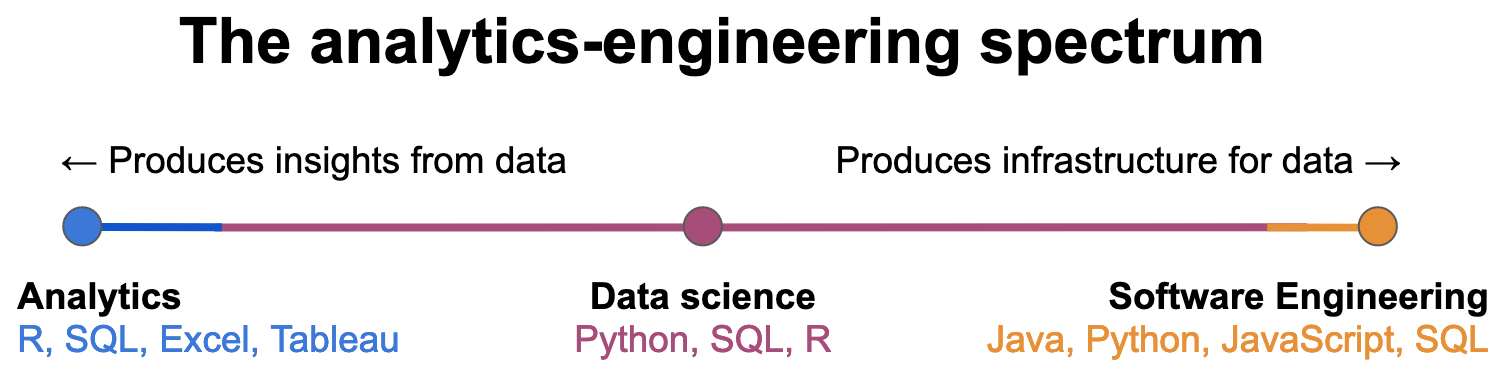
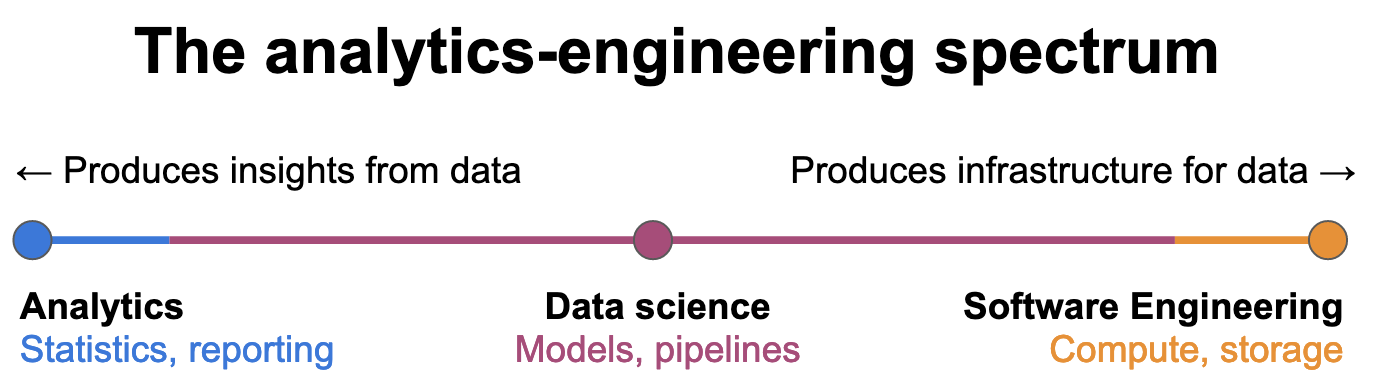
Finish DS-1 post

diff --git a/_sass/_reset.scss b/_sass/_reset.scss
@@ -78,3 +78,9 @@ sup {
 	font-size: smaller;
 	vertical-align: super;
 }
+
+.center {
+	display: block;
+	margin-left: auto;
+	margin-right: auto;
+}

diff --git a/_posts/careers/2020-08-27-DS-transition-1.md b/_posts/careers/2020-08-27-DS-transition-1.md
@@ -1,0 +1,117 @@
+---
+layout: post
+title: How to enter data science - <br>1. Identify the target
+author: matt_sosna
+summary: The role "data scientist" encompasses a huge range of occupations. This post will help you identify what role to aim for by introducing two spectrums that categorize data science roles - 1) analytics-engineering, and 2) computational complexity.
+image: "images/analytics-engineering.png"
+---
+
+The data science hype is real. Glassdoor labeled data scientist as [the best job in America]((https://www.forbes.com/sites/louiscolumbus/2019/01/23/data-scientist-leads-50-best-jobs-in-america-for-2019-according-to-glassdoor/#4c27af67474f)) four years in a row, nudged out of the top spot [only this year](https://www.glassdoor.com/blog/the-best-jobs-in-america-2020/). Data science is transforming [medicine](https://www.theverge.com/2018/8/13/17670156/deepmind-ai-eye-disease-doctor-moorfields), [healthcare](https://www.mckinsey.com/industries/healthcare-systems-and-services/our-insights/the-big-data-revolution-in-us-health-care), [finance](https://www.information-age.com/finance-data-science-123477203/), [business](https://neilpatel.com/blog/how-netflix-uses-analytics/), [nonprofits](https://www.datakind.org/blog/a-step-change-datakind-raises-20m-investment-to-support-the-data-science-for-social-good-ecosystem), and [government](https://gcn.com/articles/2018/11/01/psi_intelligent-grants-automation.aspx). [MIT is spending a billion dollars](http://news.mit.edu/2018/mit-reshapes-itself-stephen-schwarzman-college-of-computing-1015) on a college dedicated solely to AI. [An entire education industry](https://www.switchup.org/rankings/best-data-science-bootcamps) has sprouted to train new data scientists as fast as possible to [fill the burgeoning demand](https://insidebigdata.com/2018/08/19/infographic-data-scientist-shortage/), and for good reason: when [90 percent of the world’s data was generated in the last two years](https://www.glassdoor.com/Salaries/data-scientist-salary-SRCH_KO0,14.htm), we’re in dire need of people who understand how to find patterns in that pile of numbers.
+
+When there's a good match between employer and employee, data science is [a rewarding profession](https://www.businessinsider.com/what-its-like-to-be-a-data-scientist-best-job-in-america-2017-9). Yet at the same time, a 2017 *Financial Times* report found that [13% of data scientists were looking to change jobs](https://www.ft.com/content/49e81ebe-cbc3-11e7-8536-d321d0d897a3), largely driven by [disillusionment with the actual work](https://conductscience.com/are-data-scientists-leaving-jobs/). A 2019 Women in Data UK survey also indicated [*the majority* were planning to change jobs](https://www.computerweekly.com/news/252474752/Most-data-scientists-plan-exit-in-2020-Women-in-Data-conference-hears) the next year.
+
+Wait, so what's the take-away? Is data science a dream job or should I stay away? My take-away, which I share even with [disillusioned data scientists](https://towardsdatascience.com/why-so-many-data-scientists-are-leaving-their-jobs-a1f0329d7ea4), is that **data science is indeed an awesome profession - come join us!** But at the same time, **choose your employer carefully.**
+
+This post assumes you're interested in making the switch to data science. Welcome! In this post, **I'll help you make an informed choice** on the exact type of data science role you'd be happiest in. In part two of this series (coming out soon), I'll outline the technical and non-technical skills needed for you to succeed.
+
+## Table of contents
+* [What is a data scientist?](#what-is-a-data-scientist)
+  - [The scalpel versus the shovel](#the-scalpel-versus-the-shovel)
+  - [How many cores?](#how-many-cores)
+* [Taking it to the real world](#taking-it-to-the-real-world)
+  - [The job market](#the-job-market)
+  - [So what about you?](#so-what-about-you)
+  - [What now?](#what-now)
+* [Footnotes](#footnotes)
+
+## What is a data scientist?
+We first need to define what we mean by data scientist. Looking at job descriptions surprisingly leaves us *more* confused: thanks to the [explosion in interest in data science](https://insidebigdata.com/2018/08/19/infographic-data-scientist-shortage/) over the past decade, companies are happy to assign the "data scientist" label in job postings that could also be titled statistician, data analyst, data engineer, machine learning engineer, or even software engineer. Indeed, you can actually apply machine learning to the posts to identify [several clusters of more specific jobs](https://towardsdatascience.com/can-we-redefine-data-science-titles-based-on-roles-6a2c321201c7) within "data scientist"!
+
+Let's try to make some sense of the variation. At its core, **data science revolves around two ideas:**
+1. **Deriving insights from data**
+2. **Communicating those insights to others**
+
+These two points sound straightforward, but there is *tremendous* variability in what they mean in the real world. The methods used for deriving insights vary from techniques we've had [for over 100 years](https://en.wikipedia.org/wiki/Student%27s_t-test#History) to methods [at the limits of present-day computational capacity](https://venturebeat.com/2020/07/15/mit-researchers-warn-that-deep-learning-is-approaching-computational-limits/). Similarly, communicating insights looks a lot different if the consumer of those insights is [a CEO or an algorithm](https://hbr.org/2018/11/the-kinds-of-data-scientist). The internet abounds with great thought pieces carefully outlining data scientists' exact responsibilities<sup>[[1]](#footnotes)</sup>, so in this post I'll instead frame things in terms of **_spectrums_ of responsibilities.**
+
+### The scalpel versus the shovel
+Let's start with something I call the "analytics-engineering" spectrum. Note that I've purposely omitted several related occupations<sup>[[2]](#footnotes)</sup> to narrow in on what most differentiates data science from analytics and engineering.
+
+![]({{ site.baseurl }}/images/careers/analytics-engineering.png)
+
+I think of this spectrum as **"the scalpel versus the shovel."** An analyst examines data to find insights (**_scalpel_**), while the engineer builds infrastructure to store and move data (**_shovel_**). An analyst needs access to data; an engineer can build databases and APIs to enable this. An engineer needs clear direction on what to build; an analyst's findings can identify the highest-value initiatives to pursue. An analytics team delivers the most value when their insights are accurate and acted upon by the organization. An engineering team is most valuable when there is a range of technical talent that [works well together](https://builtin.com/software-engineering-perspectives/software-development-team).
+
+Somewhere between these vastly different roles lies the data scientist. A data scientist is often expected to _**both understand the data <u>and</u> build the infrastructure**_ to distribute insights to the rest of the organization. They may build a statistical model that accurately describes some data, for example, *and then* build a pipeline to populate a customer-facing dashboard with daily predictions from that model. Their product isn't just the knowledge or just the pipeline - it's some combination of both.
+
+Expectations vary widely on where on this spectrum - _**as well as how much of the spectrum!**_ - a data scientist is expected to cover. A mature big-tech company likely has data scientists in specialized roles, for example working solely on writing more efficient deep learning algorithms. A younger company, meanwhile, will expect the data scientist to span most of the spectrum, and maybe even dabble in software engineering.
+
+### How many cores?
+Another spectrum we need to briefly mention is the _**amount**_ and _**complexity**_ of data being processed, which determines the methods needed to derive insights. Any analysis in the heatmap below can fall under the umbrella of "data science," though the sophistication of coding ability needed varies from relatively little, to years of experience with memory management and distributed computing. Below, **warmer colors indicate greater computational complexity.**
+
+<img src="{{ site.baseurl }}/images/careers/complexity_spectrum.png" height="55%" width="55%" align="left">
+
+As you increase the **size of the dataset (x-axis)**, matrix operations like inverses and transposes in frequentist statistics become computationally heavy compared to the iterative methods of machine learning. Large datasets are also where we need to start thinking about [dividing our task among parallel computer cores](https://www.omnisci.com/technical-glossary/parallel-computing), renting [powerful servers in the cloud](https://en.wikipedia.org/wiki/Cloud_computing), and utilizing parts of the computer [normally reserved for rendering graphics](https://www.boston.co.uk/info/nvidia-kepler/what-is-gpu-computing.aspx). (Hopefully there are data engineers around to help!)
+
+Similarly, as you increase the **complexity of the data (y-axis)**, you quickly increase the number of iterations an algorithm needs, or the number of calculations per iteration. This is where techniques like [deep learning](https://machinelearningmastery.com/what-is-deep-learning/) or [reinforcement learning](https://deepsense.ai/what-is-reinforcement-learning-the-complete-guide/) become necessary: to identify an animal in an image, a neural network has layers upon layers of functions that scroll through pixels to find lines, then layers for building on that input to identify circles, then mouths, eyes, and faces, until many calculations later it predicts "cat" based off the best match with example images it was trained on. Phew! One image down, onto the next!
+
+The red zone may seem appealing because bigger and more complex is always better, right? Well, there are definite drawbacks: for very large datasets, it's easy to find [spurious correlations](https://www.ncbi.nlm.nih.gov/pmc/articles/PMC4236847/), and ignoring fundamental stats principles still makes you reach [incorrect conclusions](https://www.kdnuggets.com/2016/07/big-data-trouble-forgot-applied-statistics.html). Rather than mountains of data, it's much more valuable to have [high-precision data](https://hbr.org/2017/07/sometimes-small-data-is-enough-to-create-smart-products). Meanwhile, for sophisticated methods like deep learning, explaining *how the model came to its conclusion* is [surprisingly difficult](https://hub.packtpub.com/improve-interpretability-machine-learning-systems/) and can lead to lack of faith in the conclusions.
+
+Ultimately, though, you're likely to only use any of these red-zone methods in companies with boatloads of data. If there's no need for something complex, you'll likely find yourself forgoing the deep learning packages and instead cranking out linear and logistic regressions. (Which if done correctly, are incredibly valuable and shouldn't be frowned upon. Answering the question correctly is better than using a cool technique just because it's cool.)
+
+## Taking it to the real world
+### The job market
+The point of the last two sections is to show the vast range in:
+1. Expectations on what level of **analytics and engineering** a data scientist will bring to the table
+2. The **complexity and size** of datasets that can be addressed with data science methods
+
+Let's now use these spectrums to start making some sense of the variation in job posts titled "data scientist." We'll start with a sample job post from Yelp. The title is data scientist, and the position lies deep in the **analytics** side of the spectrum.
+
+<img src="{{ site.baseurl }}/images/careers/ds_job1.png" align="center" height="75%" width="75%" class="center">
+
+It's hard to tell where on the computational complexity heatmap this job falls without seeing specific data science techniques listed, but we can make some inferences. Yelp's data consists of tens of millions of numerical rankings and text reviews, meaning their data scientists are likely employing machine learning and [natural language processing](https://machinelearningmastery.com/natural-language-processing/). Yet, because the job post mentions running experiments that impact millions of users, the data science involved may be more focused on how users interact with the site and app itself. These analyses will likely involve [A/B testing](https://www.optimizely.com/optimization-glossary/ab-testing/), which is typically light on the computational complexity but requires careful statistical control of noise not relevant to the business questions. It's also clear that **Yelp expects the person in this role to provide guidance for business decisions**, meaning statistical nuance is important.
+
+Now let's look at the other end of the spectrum. Here's a sample job posting from Tesla. Again the title is data scientist, but this time the position is **heavy on the engineering.**
+
+<img src="{{ site.baseurl }}/images/careers/ds_job2.png" align="center" height="75%" width="75%" class="center">
+
+It's clear that this job falls in the red zone of computational complexity. [Tensorflow](https://www.tensorflow.org/) and [Keras](https://keras.io/) are tools for deep learning; you'll likely be working on improving how Tesla's autonomous driving algorithms process images dozens or even hundreds of times per second. [Continuous integration](https://codeship.com/continuous-integration-essentials), [REST APIs](https://restfulapi.net/), and JavaScript are clear signs that **the person for this role is expected to have software engineering chops.** The big-picture questions Tesla is trying to solve with data science are likely well-defined - now it's time to flex some muscle with state-of-the-art computation.
+
+### So what about you?
+As we can see, "data scientist" is a catch-all phrase for a wide range of work, much like how the term "engineer" encompasses dozens of professions. To figure out where on the data science spectrum you'd like to be, I'd ask yourself a few questions:
+
+1. **How much do I care about statistical nuances like random effects and representative sampling?**
+ - <span style='color:darkorange'>*Not at all, give me the determinism of code* --> + engineering</span>
+ - <span style='color:dodgerblue'>*I care a lot, and p.s. p-values are misleading!* --> + analytics <br><br></span>
+2. **How much do I care about optimizing code to make it more efficient?**
+ - <span style='color:darkorange'>*This function is 150 lines long - let's modularize that* --> + engineering</span>
+ - <span style='color:dodgerblue'>*Getting the stats right is more important than writing perfect code* --> + analytics <br><br></span>
+3. **How much do I want to build a pipeline once the analysis is complete?**
+ - <span style='color:darkorange'>*Actually, I care more about the pipeline than the analysis* --> + engineering</span>
+ - <span style='color:dodgerblue'>*I'd rather focus on making sure any conclusion I produce is accurate* --> + analytics <br><br></span>
+
+<u><b>I lean towards analytics!</b></u><br>
+If you found yourself identifying more with the analytics answers, I'd focus on building **strong skills in R and data visualization**, **good Excel**, and **decent SQL**. A major bonus would be dashboarding skills like [Shiny](https://shiny.rstudio.com/), [Tableau](https://www.tableau.com/), or [D3.js](https://d3js.org/). A crucial part of your job will be **communicating insights to stakeholders**, so you need to have expert-level skills in explaining your analyses and their conclusions. Your best bet for employers will be mature companies with established data pipelines and who have identified the need for dedicated analysts helping inform business decisions. As a next step, I'd highly recommend Cassie Kozyrkov's *Harvard Business Review* article ["What Great Data Analysts Do - And Why Every Organization Needs Them."](https://hbr.org/2018/12/what-great-data-analysts-do-and-why-every-organization-needs-them)
+
+<u><b>I lean towards engineering!</b></u><br>
+If you found yourself identifying more with the engineering answers, I'd focus on building **strong skills in Python, SQL, and [cloud computing](https://en.wikipedia.org/wiki/Cloud_computing).** Understanding data architecture best practices, such as [relational versus non-relational databases](https://www.pluralsight.com/blog/software-development/relational-non-relational-databases) or how to [configure a Spark cluster](https://www.tutorialkart.com/apache-spark/how-to-setup-an-apache-spark-cluster/), becomes important. **JavaScript** veers away from data science but is crucial for integrating your work seamlessly into the rest of a company's product. If you want to work on huge datasets, consider adding in **Scala or Java**. **Your code will be your product**, so you'll want to read up on [coding best practices](https://www.aversan.com/coding-standards-and-best-practices-2/) and maybe even a textbook or two. Being able to write efficient code in an array of languages will let you tackle a wide range of challenges - ideal for data and software engineering.
+
+<u><b>I want it all!</b></u><br>
+If you don't fall neatly in the pure analytics vs. pure engineering bucket, that's great! There are plenty of jobs out there with the right level of computational complexity and analytics vs. engineering you're looking for. No matter where on the spectrum you fall, though, I'd focus on leveling up your **Python and SQL**, as well as **being able to identify relevant questions for an organization.** The data scientist that has the business sense to identify the right question to pursue, the analytical strength to find answers to those analyses, and the self-sufficiency to deploy the results of those analyses is considered a [tremendously valuable unicorn](https://hbr.org/2018/11/the-kinds-of-data-scientist). I'll go more detail on the technical and non-technical skills in an upcoming post.
+
+### What now?
+**No matter what path you want to take, <u>start building a portfolio</u>**. A GitHub repo is fine, or a blog like this one. **Projects are key to learning** - when you're forced to demonstrate an analysis or build an API yourself, you *internalize* concepts that can otherwise stay abstract. When applying to jobs, it's also helpful to **have some proof of your coding ability** beyond a line on your CV. Writing my [Intro to R]({{ site.baseurl }}/R-1-Intro) series was critical for me developing as a programmer, and it helped land me my first job out of grad school. The team was coding solely in Python, which I didn't have much experience in, but my boss (secretly) read my R blog posts and figured I understood programming well enough to pick up Python on the fly. It worked!
+
+Once you know where on the analytics-engineering spectrum and computational complexity spectrums you fall, **start filtering out job posts** that don't involve the sort of work you'd want to do. No use spending energy on a job you don't want to do anyway! Similarly, start **thinking about the field you want to contribute to.** Especially in analytics and data science, your work will require solid understanding of the field's challenges and your organization's strategy to address them. Your job will be much more enjoyable if you find the field interesting! Finally, once you're interviewing for jobs, **look out for [data science red flags](https://hookedondata.org/red-flags-in-data-science-interviews/),** such as a lack of engineering support for data scientists, no version control, or fuzzy answers about the amount of analytics versus engineering the role involves.
+
+Good luck! Grad students and postdocs looking to enter data science, keep an eye out for an upcoming post aimed at you. And as always, feel free to reach out to me if I can help you.
+
+Best,<br>
+Matt
+
+## Footnotes
+1. [[What is a data scientist?]](#what-is-a-data-scientist) Here are a few pieces that I think are particularly insightful.
+  - Andrew Zola, *Springboard*: ["Machine Learning Engineer vs. Data Scientist"](https://www.springboard.com/blog/machine-learning-engineer-vs-data-scientist/)
+  - Yael Gerten, *Harvard Business Review*: ["The Kinds of Data Scientist"](https://hbr.org/2018/11/the-kinds-of-data-scientist)
+  - Cassie Kozyrkov, *Hackernoon*: ["Why businesses fail at machine learning"](https://hackernoon.com/why-businesses-fail-at-machine-learning-fbff41c4d5db) <br><br>
+
+2. [[The scalpel versus the shovel]](#the-scalpel-versus-the-shovel) Machine learning engineers, computational social scientists, statisticians, deep learning researchers, business intelligence analysts... there's [a lot more](https://www.northeastern.edu/graduate/blog/data-science-careers-shaping-our-future/) we could add here, but our spectrum would start becoming two- or three-dimensional. For an alternate take, here are some interesting visuals I spliced together from a piece by [efinancialcareers](https://news.efinancialcareers.com/uk-en/3001517/data-science-careers-finance): <br>
+  ![]({{ site.baseurl }}/images/careers/efinance_figure.png)
